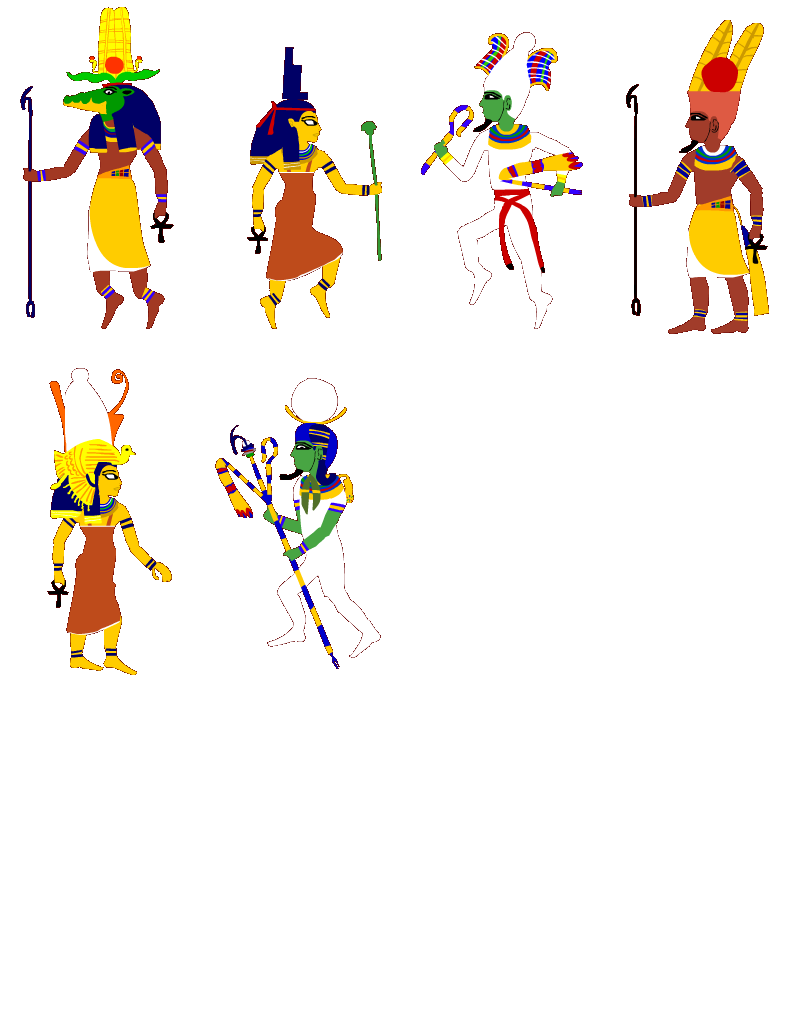
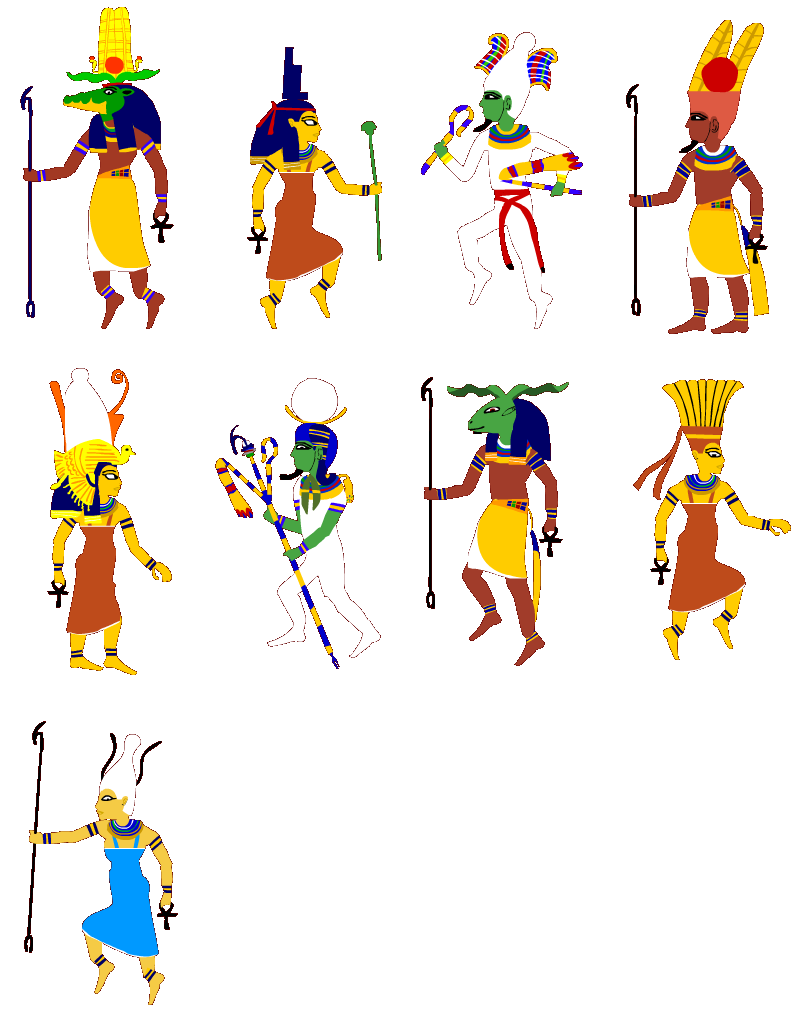
yabu foundation and opening fixes

Changed region(s): [[0.5312, 0.371, 0.7188, 0.6493], [0.7812, 0.3401, 1.0, 0.6493], [0.0312, 0.6802, 0.2188, 0.9585]]

diff --git a/js/text.js b/js/text.js
@@ -18,7 +18,7 @@ const texts = {
         "Follow me, I'll explain the situation to Amenhotep and he'll know what to do! | @Wait I don't think that's necessary-- | ~start6"
     ].join(" | "),
     "intro8": ["Is this the beekeeper you were telling me about, Intef? | Intef: Yes, your highness. | Greetings, traveller. I have been told that you were robbed of your beekeeping tools, yes?",
-        "@(It's probably easier to just say yes to that than to try explaining what actually happened.) | Yup! Er, I mean, that is correct, your highness. | I tried some of the honey Intef brought; it seems like you know your way around a beehive!",
+        "@(It's probably easier to just say yes to that than to try explaining what actually happened.) | @Yup! Er, I mean, that is correct, your highness. | I tried some of the honey Intef brought; it seems like you know your way around a beehive!",
         "I've sent one of my servants to gather what he could to help you. | It may not be much, but it will certainly be enough to get you back on your feet. | @You have my eternal gratitude, your highness.",
         "No need for that! This is the least I can do after you were attacked inside my very city. | However, I certainly will not turn down any offerings of honey the next time you're in the area, ha ha!",
         "Head back to the Nile, my servant will be waiting for you there. | ~start7"
@@ -57,9 +57,9 @@ const texts = {
     /*"factKom Ombo0": "Kom Ombo", 
     "factKom Ombo1": "", 
     "factKom Ombo2": "", */
-    "factElephantine0": "Elephantine", 
-    "factElephantine1": "", 
-    "factElephantine2": "", 
+    "factYabu0": "Yabu", 
+    "factYabu1": "", 
+    "factYabu2": "", 
     /*"factAbu Simbel0": "Abu Simbel", 
     "factAbu Simbel1": "", 
     "factAbu Simbel2": "", */
@@ -133,6 +133,9 @@ const texts = {
     "amun": "Amun was the patron deity of Thebes, after replacing its former deity Montu - the falcon god of war. | In the 16th century BC he fused with the sun god Ra and became Amun-Ra. | As Amun-Ra he became the King of Gods and, with Osiris, became the most well known Egyptian god. | As a champion of the poor, he rose in prominence as Thebes became the capital of Egypt. | His Greek equivalent was Zeus, the Greek god of thunder and the king of gods on Mount Olympus.", 
     "mut": "The Ancient Egyptian word for mother was also the name of the mother goddess Mut. | Along with her husband Amun and her son Khonsu, they formed the triad of Thebes - or Waset as the city was known in Egyptian. | Prior to the rise of the New Kingdom, Amun's wives were the goddesses Amaunet and Wosret, but they were displaced by Mut. | The Pharaoh and priestesse would perform daily rituals to Mut, as she grew to be the most important goddess in Egypt.", 
     "khonsu": "Khonsu, son of Amun and Mut, was the god of the moon who watched over those who traveled at night. | In one of Ancient Egypt's creation myths, Khonsu was the great snake that fertilized the Cosmic Egg to create the world. | He was known as a great healer, a reputation that spread outside of Egypt.", 
+    "khnum": "",
+    "anuket": "",
+    "satis": "",
 
     // Crops
     "corn0": ["Corn in Ancient Egypt? That doesn't sound right. | !Corn, or maize, was first domesticated in Mexico over 6000 years ago.", 
@@ -230,7 +233,9 @@ const texts = {
     
     // Regional - Waset
     "guardingPharaoh": "Halt! The pharaoh is not seeing visitors right now. | @But I've got some honey for him. I'm the beekeeper you-- | You? A beekeeper? You look nothing like a beekeeper, don't make me laugh! | If you wish to seek an audience with the pharaoh, you must prove that you are worthy. | @How can I do that? | I'll be listening to the gods for an answer. It might be wise to get on the good side of some of them if you want to see the pharaoh!", 
-    "fishSeller": "",
+    "fishSeller": "hi i got fishies",
+
+    // Regional - Yabu
     "": "",
     "": "",
     "": "",
@@ -564,7 +569,7 @@ const cutscenes = {
     "~start7": function() {
         land.inDialogue = false;
         land.target.type = "bg";
-        land.entities.push({ type: "bg", sprite: "boat", dir: 0, x: 50, y: 75 });
+        land.entities.push({ type: "bg", sprite: "boatboat", dir: 0, x: 50, y: 75 });
         // TODO: push the mid-walk thought processese
         land.entities.push(GetCopy("tutServant", 450));
     },

diff --git a/js/things.js b/js/things.js
@@ -116,6 +116,15 @@ const things = {
     "khonsu": { type: "bg", sprite: "peopleMiscBig", sx: 1, sy: 1, y: -200 },
     "khonsuAltar": { type: "observable", sprite: "altar", name: "Khonsu", text: "khonsu", textAlt: "offeringPleased",
                         isGod: true, pronoun: "his", want: "honey", honeyType: "any", wantDisplay: "combs of honey", amount: 20, sxAlt: 3 },
+    "khnum": { type: "bg", sprite: "peopleMiscBig", sx: 2, sy: 1, y: -200 },
+    "khnumAltar": { type: "observable", sprite: "altar", name: "Khnum", text: "khnum", textAlt: "offeringPleased",
+                        isGod: true, pronoun: "his", want: "TODO", amount: 5, wantDisplay: "TODO", sxAlt: 2 },
+    "anuket": { type: "bg", sprite: "peopleMiscBig", sx: 3, sy: 1, y: -200 },
+    "anuketAltar": { type: "observable", sprite: "altar", name: "Anuket", text: "anuket", textAlt: "offeringPleased",
+                        isGod: true, pronoun: "her", want: "TODO", amount: 10, wantDisplay: "TODO", sxAlt: 1 },
+    "satis": { type: "bg", sprite: "peopleMiscBig", sx: 0, sy: 2, y: -200 },
+    "satisAltar": { type: "observable", sprite: "altar", name: "Satis", text: "satis", textAlt: "offeringPleased",
+                        isGod: true, pronoun: "her", want: "TODO", honeyType: "TODO", wantDisplay: "TODO", amount: 20, sxAlt: 3 }
 };
 
 const movements = {

diff --git a/js/places.js b/js/places.js
@@ -15,7 +15,7 @@ const GetPlaceEntities = function(place, modern) {
         if(obj.y !== undefined) {
             entity.y = (entity.y || 0) + obj.y;
         }
-        if(obj.x <= 600) {
+        if(obj.x <= 600) { // TODO: remove me eventually
             alert("object " + obj.id + " needs an X value higher than 600!");
         }
         entities.push(entity);
@@ -179,7 +179,19 @@ const places = {
         return res;
     }(),
     //"Kom Ombo": [],  
-    "Elephantine": [],  
+    "Yabu": function() {
+        const res = [
+            { x: 5500, id: "puddle" },
+            { x: 5600, id: "puddle" },
+            { x: 5800, id: "puddle" },
+            { x: 5650, id: "puddle" },
+            { x: 5550, id: "puddle" },
+            { x: 5700, id: "puddle" },
+            { x: 5750, id: "puddle" },
+            { x: 5850, id: "puddle" }
+        ];
+        return res;
+    }(), // Elephantine 
     //"Abu Simbel": [],  
     "Napata": [], // https://en.wikipedia.org/wiki/Merymose
     "Testbench": [

diff --git a/index.html b/index.html
@@ -3,14 +3,18 @@
         TODO: 
             needed for altars:
                 sekhmet:    beer or pomegranate juice
-                sobek:      milk
+                sobek:      milk    <--- slappy2 eventually
                 crocodile:  fish
+                osiris:     linen
+                isis:       GOLD!!! <--- slappy2
+                amun:       scented oils
                 some way to see types of honey?
                 renewable way to get gold (or at least more than one way to get it)
-
-            lettuce, crocodiles, vases, mummies
+            symbols for shops and such?
+            lettuce, vases, mummies
             save game
             loading/title screen
+            PET CATS
     -->
     <head>
         <style>

diff --git a/js/land.js b/js/land.js
@@ -73,8 +73,10 @@ const land = {
         land.target = null;
         gfx.ClearLayers(["menuA", "menuC", "menutext"]);
         land.waterIdx = (land.waterIdx + 0.5) % 1920;
-        gfx.DrawSprite("water", 0, 0, -250 - land.playerX, 735, "menuC", 1, true);
-        gfx.DrawSprite("shore2", 0, 0, 205 - land.playerX, 775, "menuC", 1, true);
+        if(!land.modernTimes) {
+            gfx.DrawSprite("water", 0, 0, -250 - land.playerX, 735, "menuC", 1, true);
+            gfx.DrawSprite("shore2", 0, 0, 205 - land.playerX, 775, "menuC", 1, true);
+        }
         land.target = land.DrawEntitiesAndGetTarget();
         if(land.target !== null && !land.cutscene.active) {
             switch(land.target.type) {

diff --git a/js/textHandler.js b/js/textHandler.js
@@ -52,7 +52,7 @@ const textHandler = {
     Advance: function() {
         gfx.ClearLayer("menutext");
         if(this.remainder < 0) {
-            if(game.currentInputHandler.target.isGod === true && this.currentKey.indexOf("offering") !== 0) {
+            if((game.currentInputHandler.target !== null && game.currentInputHandler.target.isGod === true) && this.currentKey.indexOf("offering") !== 0) {
                 const targ = game.currentInputHandler.target;
                 textHandler.MoveToNewText("offering", targ.amount + " " + (targ.wantDisplay || targ.want), targ.pronoun);
             } else {

diff --git a/js/boat.js b/js/boat.js
@@ -7,7 +7,7 @@ const positions = [ // name, x, y, distance from previous
     ["Abdju", 515, 325, 6], // Abydos (formerly 3)
     ["Waset", 535, 360, 3], // Thebes
     //["Kom Ombo", 545, 410, 3], // Nubt, also near Syene
-    ["Elephantine", 535, 440, 4], // formerly 1
+    ["Yabu", 535, 440, 4], // formerly 1
     //["Abu Simbel", 485, 490, 4], 
     ["Napata", 495, 650, 14] // formerly 10
 ];
